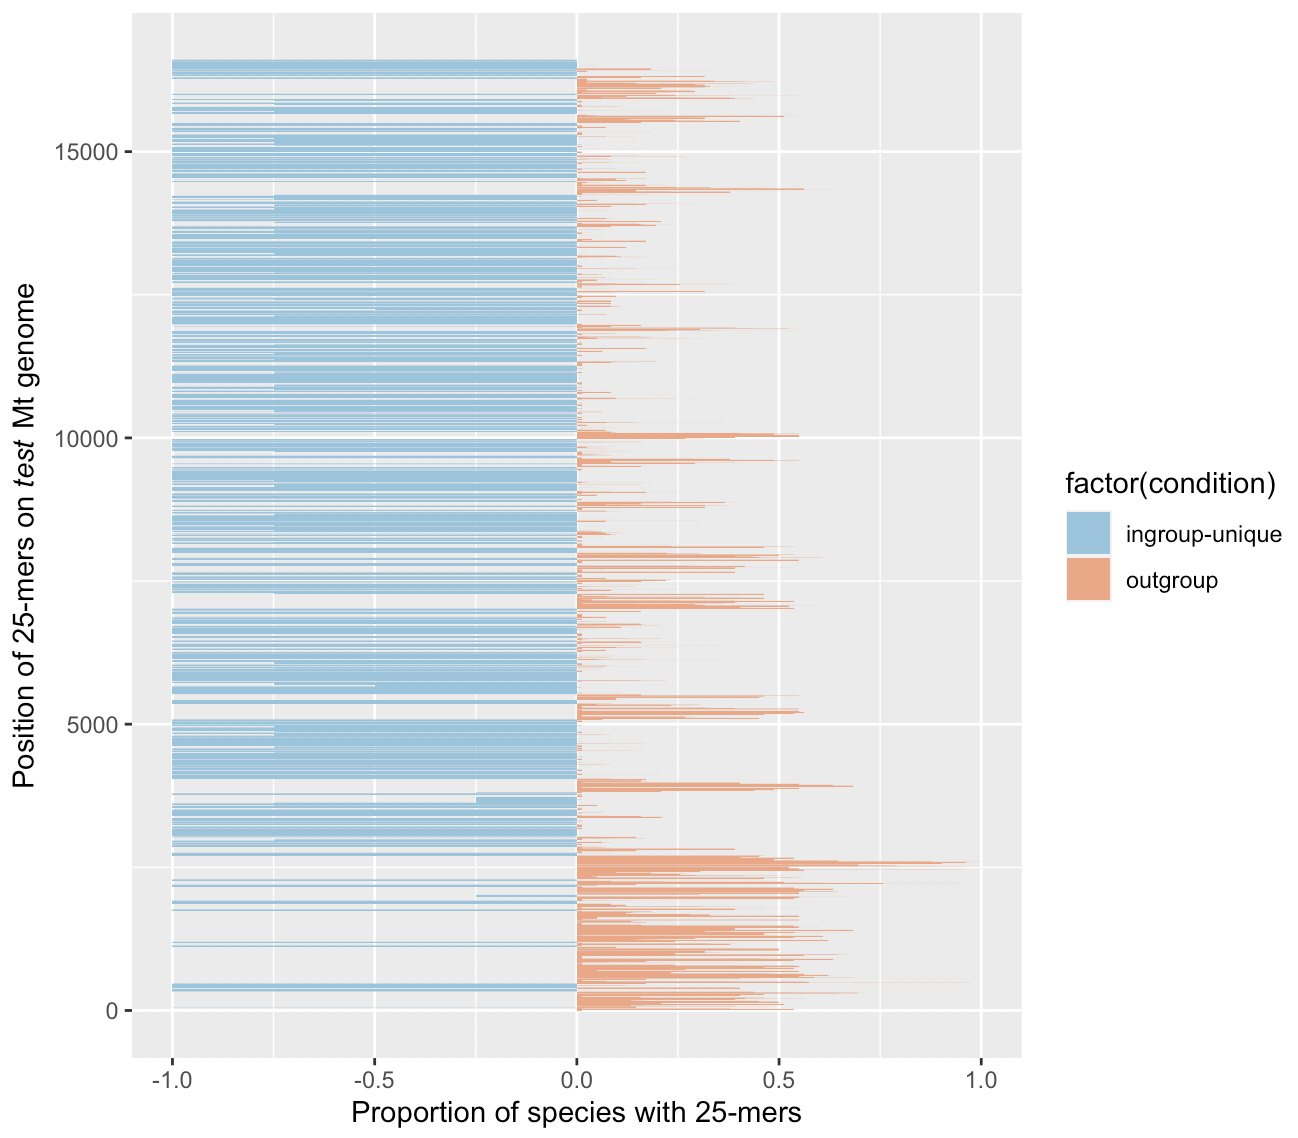
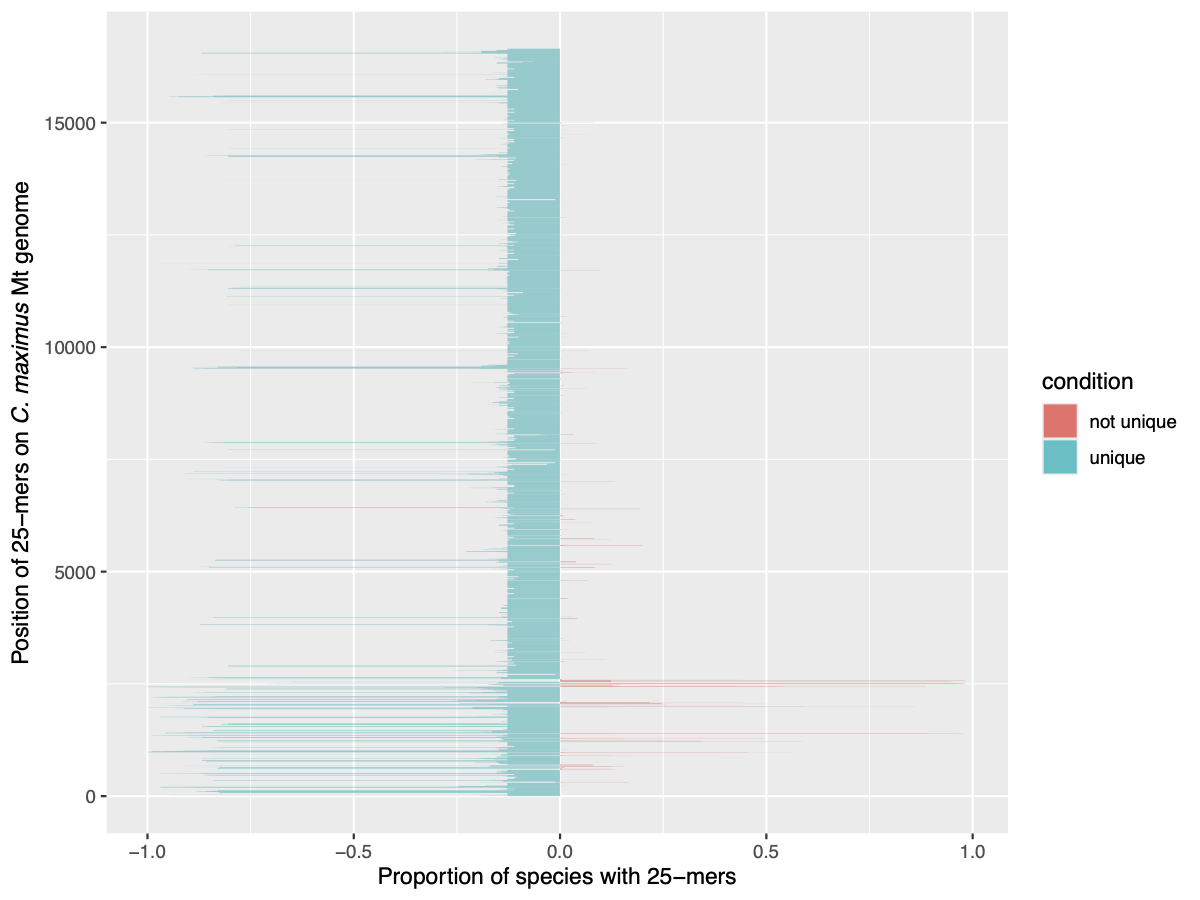
streamlined butterfly-plot section and testdata

diff --git a/README.md b/README.md
@@ -209,7 +209,7 @@ Notes:
 
 ### Test data <a name=data></a>
 ---------
-We showcase the utility of unikseq in identifying mitogenome (MtG) regions unique to C. maximum (basking shark, CEMA.fa reference) compared to ray-finned fishes (teleost.fa outgroup, non-target sequence set n=868 MtG), and conserved in >=25% of (shark.fa ingroup, n=189 MtG) shark mitogenomes, on average (unikseq.pl query below).
+We showcase the utility of unikseq in identifying mitogenome (MtG) regions unique to C. maximum (basking shark, CEMA.fa reference) compared to ray-finned fishes (teleost.fa outgroup, non-target sequence set n=872 MtG), and conserved in >=25% of (shark.fa ingroup, n=189 MtG) shark mitogenomes, on average (unikseq.pl query below).
 
 Depending on your system, expect unikseq.pl to use 2.5 GB RAM and run in 49.1s (wall clock time) on a single CPU thread on a MacBook Pro (2.6 GHz 6-Core Intel Core i7 chipset with 16GB RAM onboard) running mac OS (Catalina v10.15.7). On a server-class CentOS Linux 7 system with 144 Intel(R) Xeon(R) Gold 6254, 3.10GHz CPUs with 3TB RAM, the same test sample ran in 31.5s (wall clock time), using a single thread and required 2.5GB RAM. If your system is limited in RAM, you could subsample from shark.fa and/or teleost.fa -- just to make sure unikseq is installed properly and will run on your system.
 
@@ -229,20 +229,28 @@ Note: In version 1.3.4 and subsequent, unikseq.pl supports .zip and .gz FASTA fi
 3. Run unikseq on the provided test data
 ../unikseq.pl -k 25 -r CEMA.fa -i shark.fa -o teleost.fa -s 100 -p 25 -l 1 -u 90
 ---or---
-./unikseq.pl -k 25 -r CEMA.fa.gz -i shark.fa.gz -o teleost.fa.gz -s 100 -p 25 -l 1 -u 90
+./unikseq.pl -k 25 -r CEMA.fa.gz -i shark.fa.gz -o teleost.fa.gz -s 100 -p 25 -l 1 -u 90 -v 1
 
 
-This specific command will generate three output files:
-unikseq_v1.3.5-r_CEMA.fa-i_shark.fa-o_teleost.fa-k25-c0-s100-p25-l1-u90-m0-unique.fa
-unikseq_v1.3.5-r_CEMA.fa-i_shark.fa-o_teleost.fa-k25-c0-s100-p25-l1-u90-m0.bed
-unikseq_v1.3.5-r_CEMA.fa-i_shark.fa-o_teleost.fa-k25-c0-s100-p25-l1-u90-m0.log
+This specific command will generate 3 output files (4 if you ran with -v 1):
+unikseq_v2.0.0-r_CEMA.fa-i_shark.fa-o_teleost.fa-k25-c0-s100-p25-l1-u90-m0-unique.fa
+unikseq_v2.0.0-r_CEMA.fa-i_shark.fa-o_teleost.fa-k25-c0-s100-p25-l1-u90-m0.bed
+unikseq_v2.0.0-r_CEMA.fa-i_shark.fa-o_teleost.fa-k25-c0-s100-p25-l1-u90-m0.log
 ---or---
-unikseq_v1.3.5-r_CEMA.fa.gz-i_shark.fa.gz-o_teleost.fa.gz-k25-c0-s100-p25-l1-u90-m0-unique.fa
-unikseq_v1.3.5-r_CEMA.fa.gz-i_shark.fa.gz-o_teleost.fa.gz-k25-c0-s100-p25-l1-u90-m0.bed
-unikseq_v1.3.5-r_CEMA.fa.gz-i_shark.fa.gz-o_teleost.fa.gz-k25-c0-s100-p25-l1-u90-m0.log
-
+unikseq_v2.0.0-r_CEMA.fa.gz-i_shark.fa.gz-o_teleost.fa.gz-k25-c0-s100-p25-l1-u90-m0-unique.fa
+unikseq_v2.0.0-r_CEMA.fa.gz-i_shark.fa.gz-o_teleost.fa.gz-k25-c0-s100-p25-l1-u90-m0.bed
+unikseq_v2.0.0-r_CEMA.fa.gz-i_shark.fa.gz-o_teleost.fa.gz-k25-c0-s100-p25-l1-u90-m0.log
+unikseq_v2.0.0-r_CEMA.fa.gz-i_shark.fa.gz-o_teleost.fa.gz-k25-uniqueKmers.tsv
 
 If the run is successful, the -unique.fa FASTA output should contain 5 sequences.
+
+
+4. Generate a butterfly plot with R (you may need to install rscript and the R package ggplot2)
+rscript ../butterfly-plot.r unikseq_v2.0.0-r_CEMA.fa.gz-i_shark.fa.gz-o_teleost.fa.gz-k25-uniqueKmers.tsv "C. maximus"
+
+5. Run unikseq in conserved (-c 1) mode on the provided test data
+../unikseq.pl -k 25 -r CEMA.fa.gz -i shark.fa.gz -o teleost.fa.gz -s 100 -p 15 -l 1 -u 90 -v 1 -c 1
+*note: this will output conserved regions (-conserved.fa) that satisfy both the minimum length (-s 100bp and up) threshold, and the proportion of conserved k-mers (-p 15% and higher) out of 189 shark entries in shark.fa.gz. The unique regions (-unique.fa) lists all unique regions in reference CEMA.fa.gz (i.e., not found in the 872 teleost.fa.gz outgroup entries). The conserved regions with shark.fa.gz (at the 15% level and higher) are represented as upper case bases in the latter file.
 
 </pre>
 
@@ -281,14 +289,13 @@ unikseq-Bloom.pl -k 25 -r CEMA.fa.gz -i shark.fa_k25_p0.001_rolling.bloom -o tel
 
 
 This specific command will generate three output files:
-unikseq_v1.3.5-r_CEMA.fa-i_shark.fa_k25_p0.001_rolling.bloom-o_teleost.fa_k25_p0.001_rolling.bloom-k25-c0-s500-p100-l1-u99.5-m0-unique.fa
-unikseq_v1.3.5-r_CEMA.fa-i_shark.fa_k25_p0.001_rolling.bloom-o_teleost.fa_k25_p0.001_rolling.bloom-k25-c0-s500-p100-l1-u99.5-m0.bed
-unikseq_v1.3.5-r_CEMA.fa-i_shark.fa_k25_p0.001_rolling.bloom-o_teleost.fa_k25_p0.001_rolling.bloom-k25-c0-s500-p100-l1-u99.5-m0.log
+unikseq_v2.0.0-r_CEMA.fa-i_shark.fa_k25_p0.001_rolling.bloom-o_teleost.fa_k25_p0.001_rolling.bloom-k25-c0-s500-p100-l1-u99.5-m0-unique.fa
+unikseq_v2.0.0-r_CEMA.fa-i_shark.fa_k25_p0.001_rolling.bloom-o_teleost.fa_k25_p0.001_rolling.bloom-k25-c0-s500-p100-l1-u99.5-m0.bed
+unikseq_v2.0.0-r_CEMA.fa-i_shark.fa_k25_p0.001_rolling.bloom-o_teleost.fa_k25_p0.001_rolling.bloom-k25-c0-s500-p100-l1-u99.5-m0.log
 ---or---
-unikseq_v1.3.5-r_CEMA.fa.gz-i_shark.fa_k25_p0.001_rolling.bloom-o_teleost.fa_k25_p0.001_rolling.bloom-k25-c0-s500-p100-l1-u99.5-m0-unique.fa
-unikseq_v1.3.5-r_CEMA.fa.gz-i_shark.fa_k25_p0.001_rolling.bloom-o_teleost.fa_k25_p0.001_rolling.bloom-k25-c0-s500-p100-l1-u99.5-m0.bed
-unikseq_v1.3.5-r_CEMA.fa.gz-i_shark.fa_k25_p0.001_rolling.bloom-o_teleost.fa_k25_p0.001_rolling.bloom-k25-c0-s500-p100-l1-u99.5-m0.log
-
+unikseq_v2.0.0-r_CEMA.fa.gz-i_shark.fa_k25_p0.001_rolling.bloom-o_teleost.fa_k25_p0.001_rolling.bloom-k25-c0-s500-p100-l1-u99.5-m0-unique.fa
+unikseq_v2.0.0-r_CEMA.fa.gz-i_shark.fa_k25_p0.001_rolling.bloom-o_teleost.fa_k25_p0.001_rolling.bloom-k25-c0-s500-p100-l1-u99.5-m0.bed
+unikseq_v2.0.0-r_CEMA.fa.gz-i_shark.fa_k25_p0.001_rolling.bloom-o_teleost.fa_k25_p0.001_rolling.bloom-k25-c0-s500-p100-l1-u99.5-m0.log
 
 If the run is successful, the -unique.fa FASTA output should contain 4 sequences.
 
@@ -310,7 +317,7 @@ If the run is successful, the -unique.fa FASTA output should contain 4 sequences
    By default, every instance of a reference k-mer is reported when found in the outgroup.
    When it is not found, the ingroup-unique will be reported (if found). Note: when -t is specified, only the first -t bases of the k-mer will be shown in the tsv file(s), but the data reported is for the whole k-mer.
    If a reference k-mer is found in outgroup sequences, the ingroup-unique WILL NOT report any
-   values. This is the file to use to generate "butterfly" plots (see below and r script attached with this distribution [example.r] for details)
+   values. This is the file to use to generate "butterfly" plots (see below and r script attached with this distribution [butterfly-plot.r] for details)
 
    e.g.
    header  position        25-mer  condition       value
@@ -442,15 +449,10 @@ Below is a reference guide for controlling the [stringency &] output of unikseq.
 </pre>
 
 ## Generating "butterfly" plots <a name=bplot></a>
-
+For user convenience, an R script is included to facilitate data visualization. Refer to `butterfly-plot.r` included with the unikseq distribution. You may test it using the example data provided; Please refer to the testdata folder README.md for instructions on how to generate butterfly plots.
 ![UnikseqButterflyPlot](https://github.com/bcgsc/unikseq/blob/main/unikseq-butterfly.png)
+Example butterfly-type plot generated from the testdata (and run parameters) provided.
 
-Refer to `example.r` included with the unikseq distribution, and replace these lines:
-
-<pre>
-dfa<-read.table("XX unikseq-r_CEMA.fa-i_shark.fa-o_teleost.fa-k25-uniqueKmers.tsv XX", sep="\t", header = TRUE)
-my_x_title <- expression(paste("Position of 25-mers on ", italic("XX C. maximus XX"), " Mt genome"))
-</pre>
 
 ## License <a name=license></a>
 

diff --git a/testdata/README.md b/testdata/README.md
@@ -1,4 +1,4 @@
-23 February 2023
+23 February 2023 (updated 11 March 2025)
 
 Directory testdata
 
@@ -28,7 +28,17 @@ Note: In version 1.3.4 and subsequent, unikseq.pl and unikseq-Bloom.pl support .
 
 
 3. Run unikseq on the provided test data
-../unikseq.pl -k 25 -r CEMA.fa -i shark.fa -o teleost.fa -s 100 -p 25 -l 1 -u 90
+../unikseq.pl -k 25 -r CEMA.fa -i shark.fa -o teleost.fa -s 100 -p 25 -l 1 -u 90 -v 1
 ---or---
-../unikseq.pl -k 25 -r CEMA.fa.gz -i shark.fa.gz -o teleost.fa.gz -s 100 -p 25 -l 1 -u 90
+../unikseq.pl -k 25 -r CEMA.fa.gz -i shark.fa.gz -o teleost.fa.gz -s 100 -p 25 -l 1 -u 90 -v 1
+
+
+4. Generate a butterfly plot with R
+rscript ../butterfly-plot.r unikseq_v2.0.0-r_CEMA.fa.gz-i_shark.fa.gz-o_teleost.fa.gz-k25-uniqueKmers.tsv "C. maximus"
+
+
+5. Run unikseq in conserved (-c 1) mode on the provided test data
+../unikseq.pl -k 25 -r CEMA.fa.gz -i shark.fa.gz -o teleost.fa.gz -s 100 -p 15 -l 1 -u 90 -v 1 -c 1
+*note: this will output conserved regions (-conserved.fa) that satisfy both the minimum length (-s 100bp and up) threshold, and the proportion of conserved k-mers (-p 15% and higher) out of 189 shark entries in shark.fa.gz. The unique regions (-unique.fa) lists all unique regions in reference CEMA.fa.gz (i.e., not found in the 872 teleost.fa.gz outgroup entries). The conserved regions with shark.fa.gz (at the 15% level and higher) are represented as upper case bases in the latter file.
+
 </pre>
